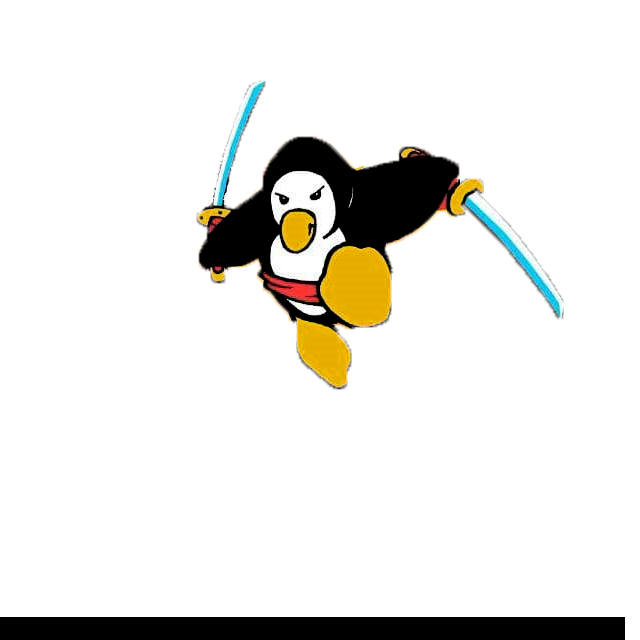
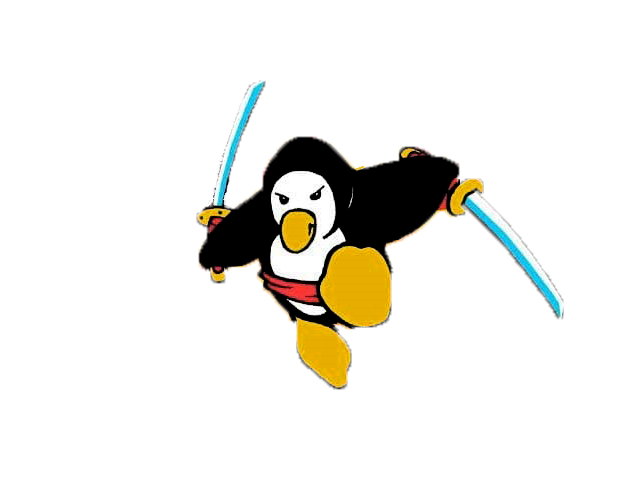
img ..

Changed region(s): [[0.2812, 0.125, 0.9062, 0.8125], [0.0, 0.9375, 1.0, 1.0]]

diff --git a/index.html b/index.html
@@ -2,5 +2,5 @@
 layout: home
 author_profile: false
 header:
-  image: "/images/peng160.png"
+  image: "/images/peng.png"
 ---

diff --git a/_pages/newsevents.md b/_pages/newsevents.md
@@ -4,7 +4,7 @@ title: "News and Events"
 permalink: /newsevents/
 author_profile: true
 # header:
-#   image: "/images/peng160.png"
+#   image: "/images/peng.png"
 ---
 
 

diff --git a/_pages/about.md b/_pages/about.md
@@ -2,7 +2,7 @@
 title: "About"
 permalink: /about/
 # header:
-#   image: "/images/peng160.png"
+#   image: "/images/peng.png"
 ---
 
 About Ninja Penguins CloudOps
